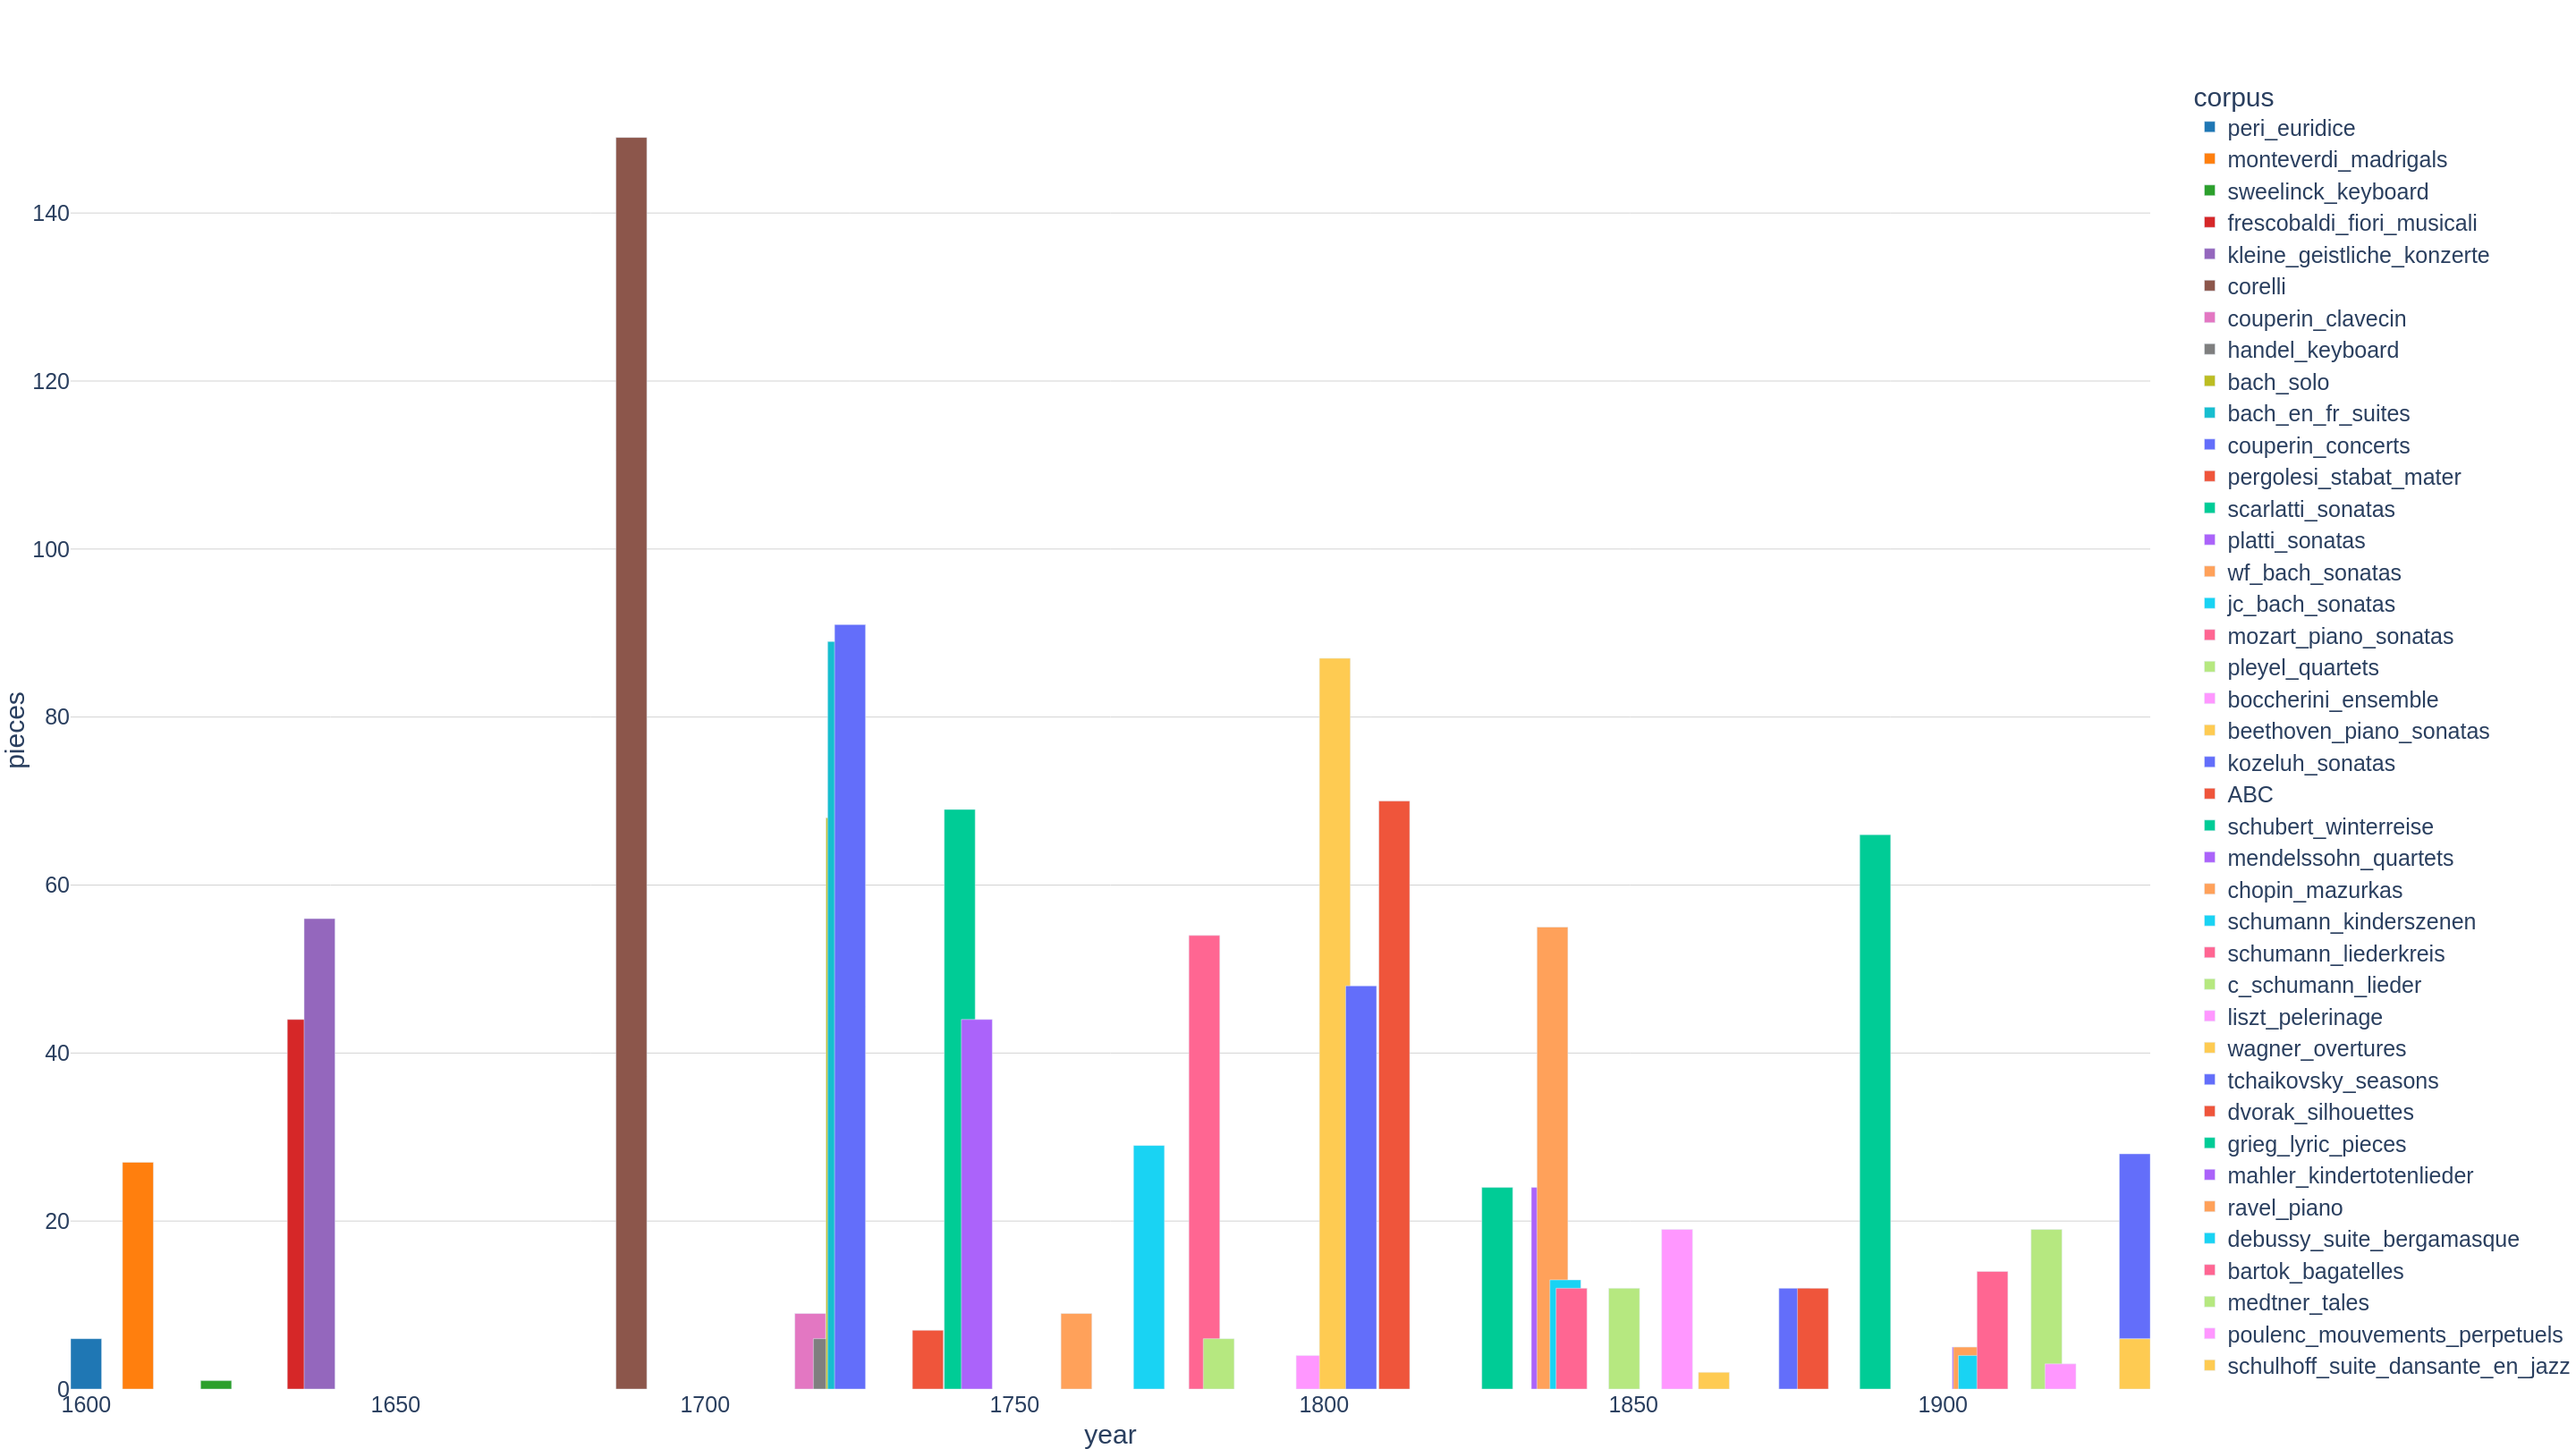
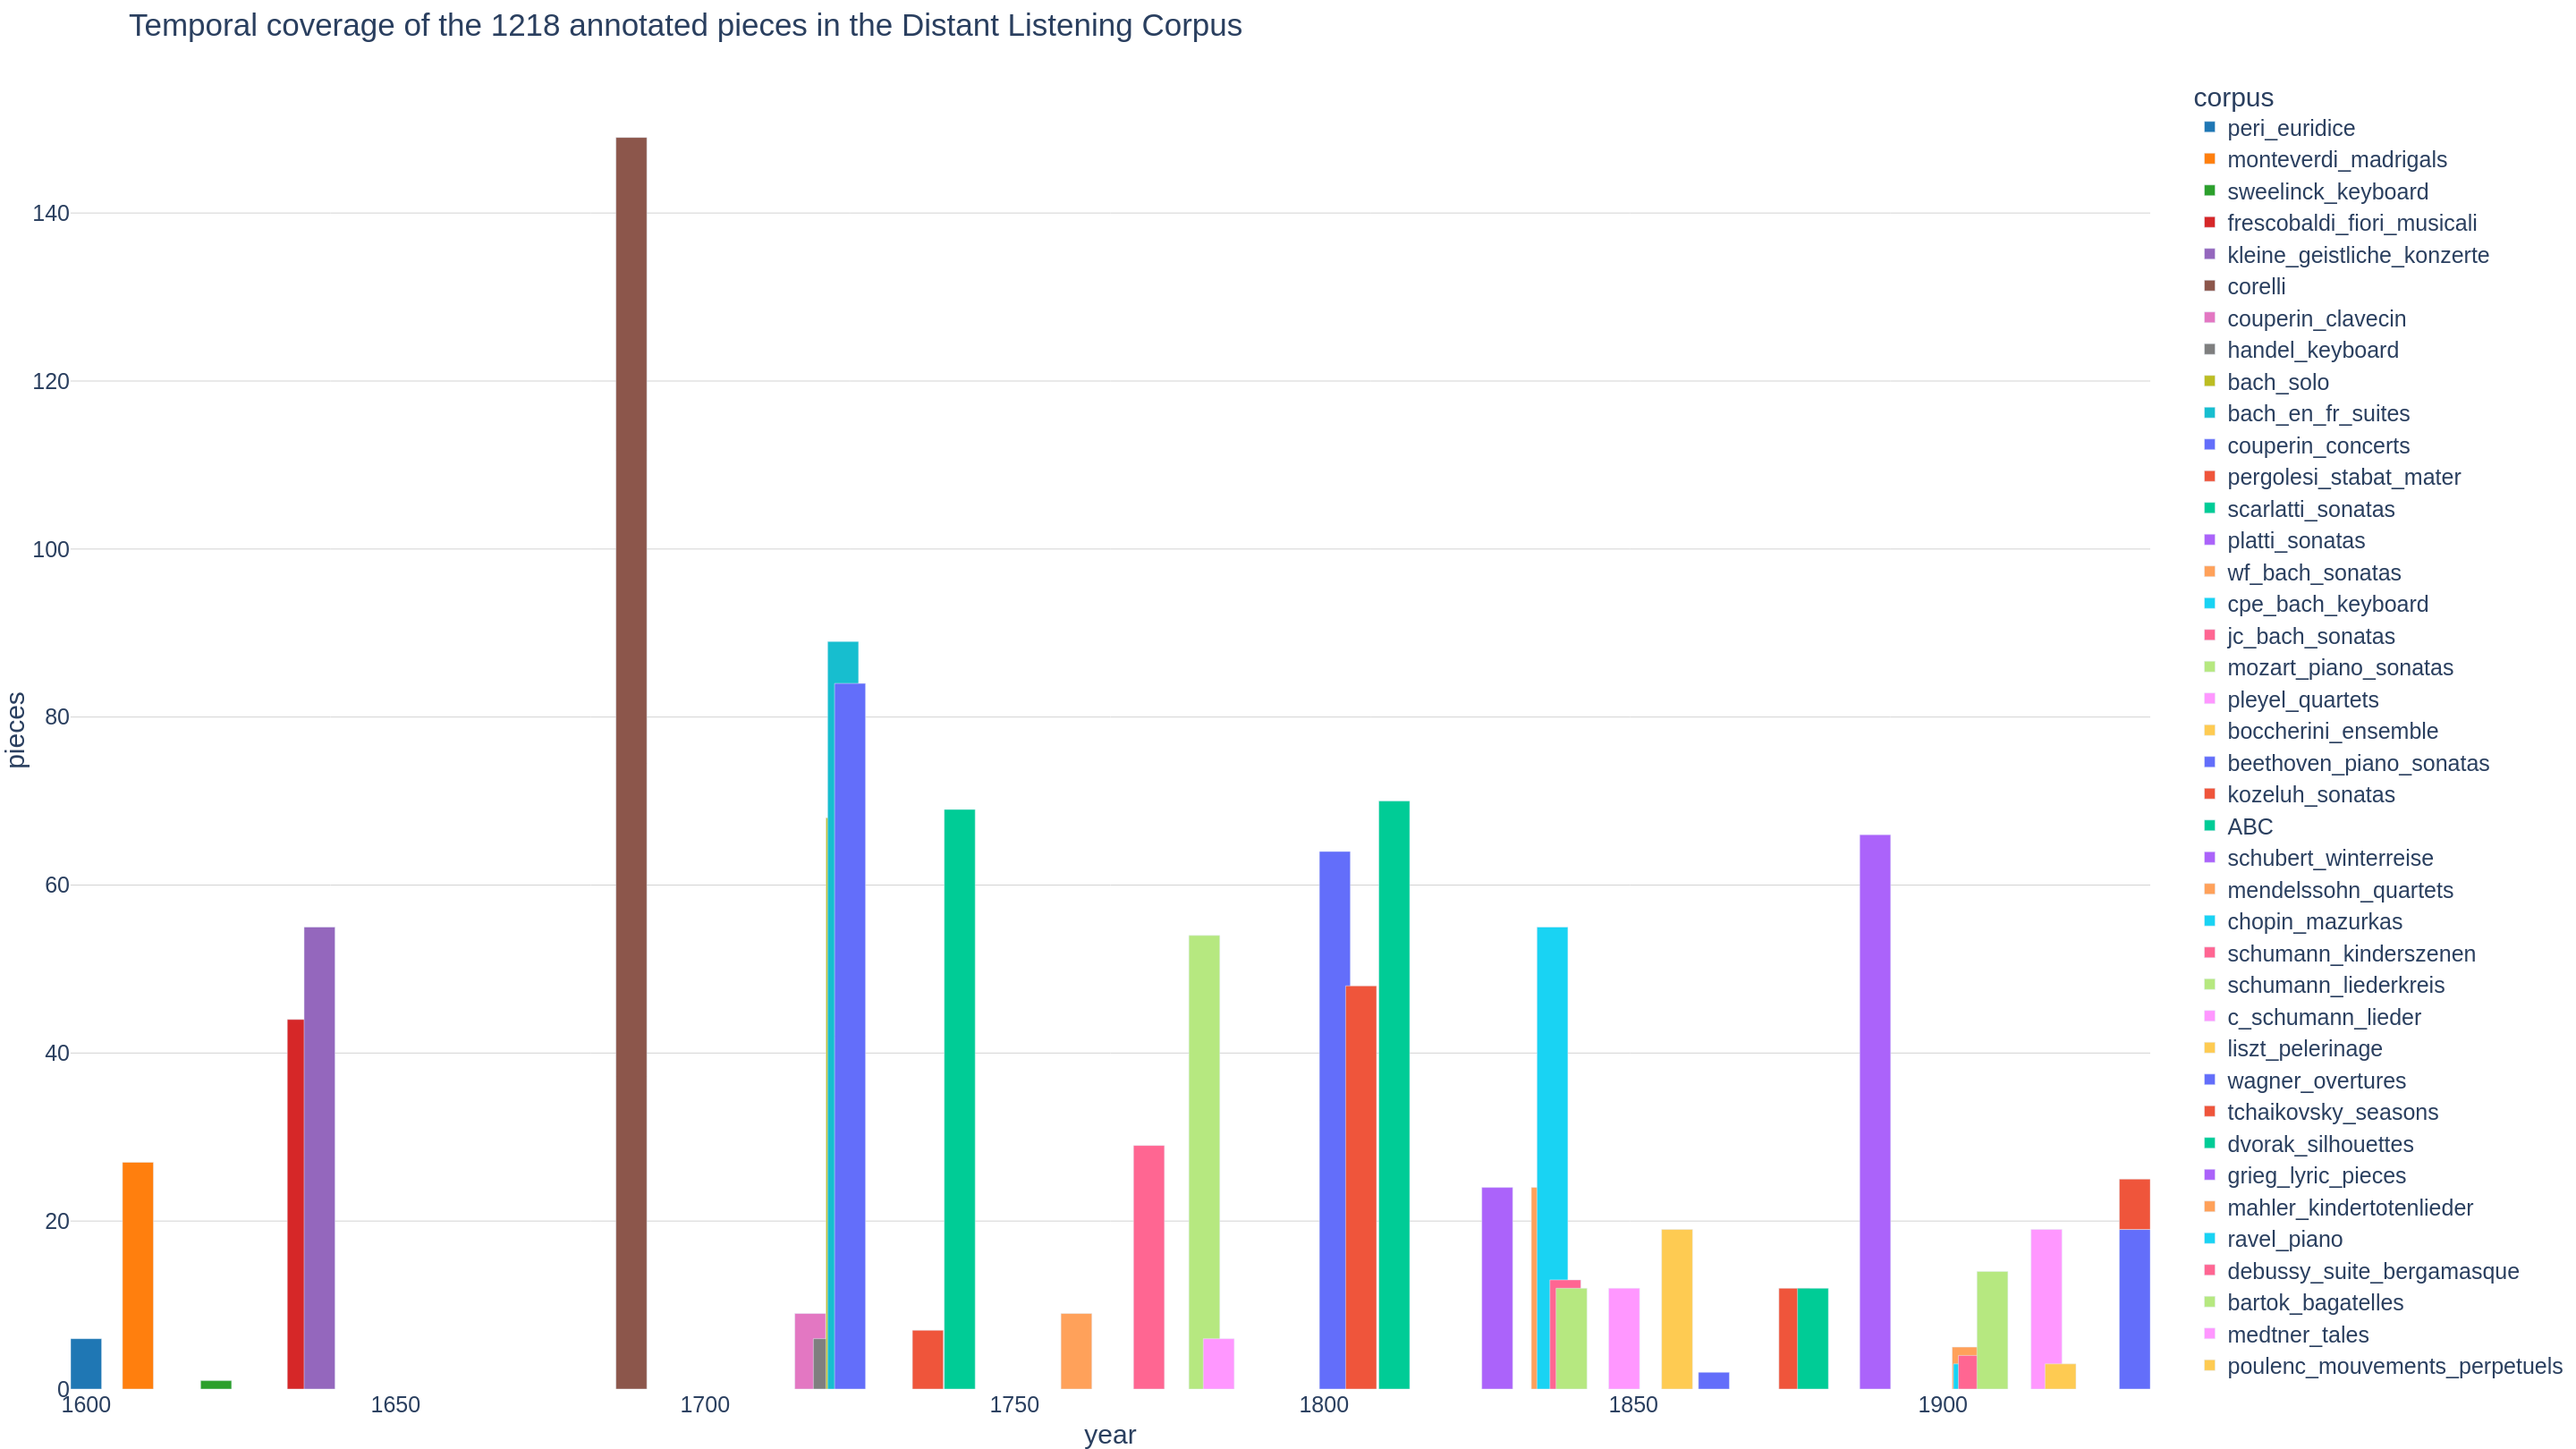
temporal coverage plot only for annotated pieces

diff --git a/overview.md b/overview.md
@@ -92,18 +92,26 @@ print(f"Composition dates range from {int(valid_composed_start.min())} {valid_co
 ```{code-cell}
 :tags: [hide-input]
 
-summary = all_metadata.copy()
-summary.length_qb = all_measures.groupby(level=[0,1]).act_dur.sum() * 4.0
+piece_is_annotated = all_metadata.label_count > 0
+summary = all_metadata[piece_is_annotated].copy()
+summary.length_qb = all_measures[piece_is_annotated].groupby(level=[0,1]).act_dur.sum() * 4.0
 summary = pd.concat([summary,
-                     all_notes.groupby(level=[0,1]).size().rename('notes'),
+                     all_notes[piece_is_annotated].groupby(level=[0,1]).size().rename('notes'),
                     ], axis=1)
 bar_data = pd.concat([mean_composition_years.rename('year'),
                       summary.groupby(level='corpus').size().rename('pieces')],
                      axis=1
                     ).reset_index()
-fig = px.bar(bar_data, x='year', y='pieces', color='corpus',
-             color_discrete_map=corpus_colors,
-            )
+
+N = len(summary)
+fig = px.bar(
+    bar_data,
+    x='year',
+    y='pieces',
+    color='corpus',
+    color_discrete_map=corpus_colors,
+    title=f"Temporal coverage of the {N} annotated pieces in the Distant Listening Corpus"
+)
 fig.update_traces(width=5)
 fig.update_layout(**STD_LAYOUT)
 fig.update_yaxes(gridcolor='lightgrey')
@@ -119,7 +127,6 @@ fig.show()
 
 hist_data = summary.reset_index()
 hist_data.corpus = hist_data.corpus.map(corpus_names)
-N = len(hist_data)
 fig = px.histogram(
     hist_data,
     x='composed_end',
